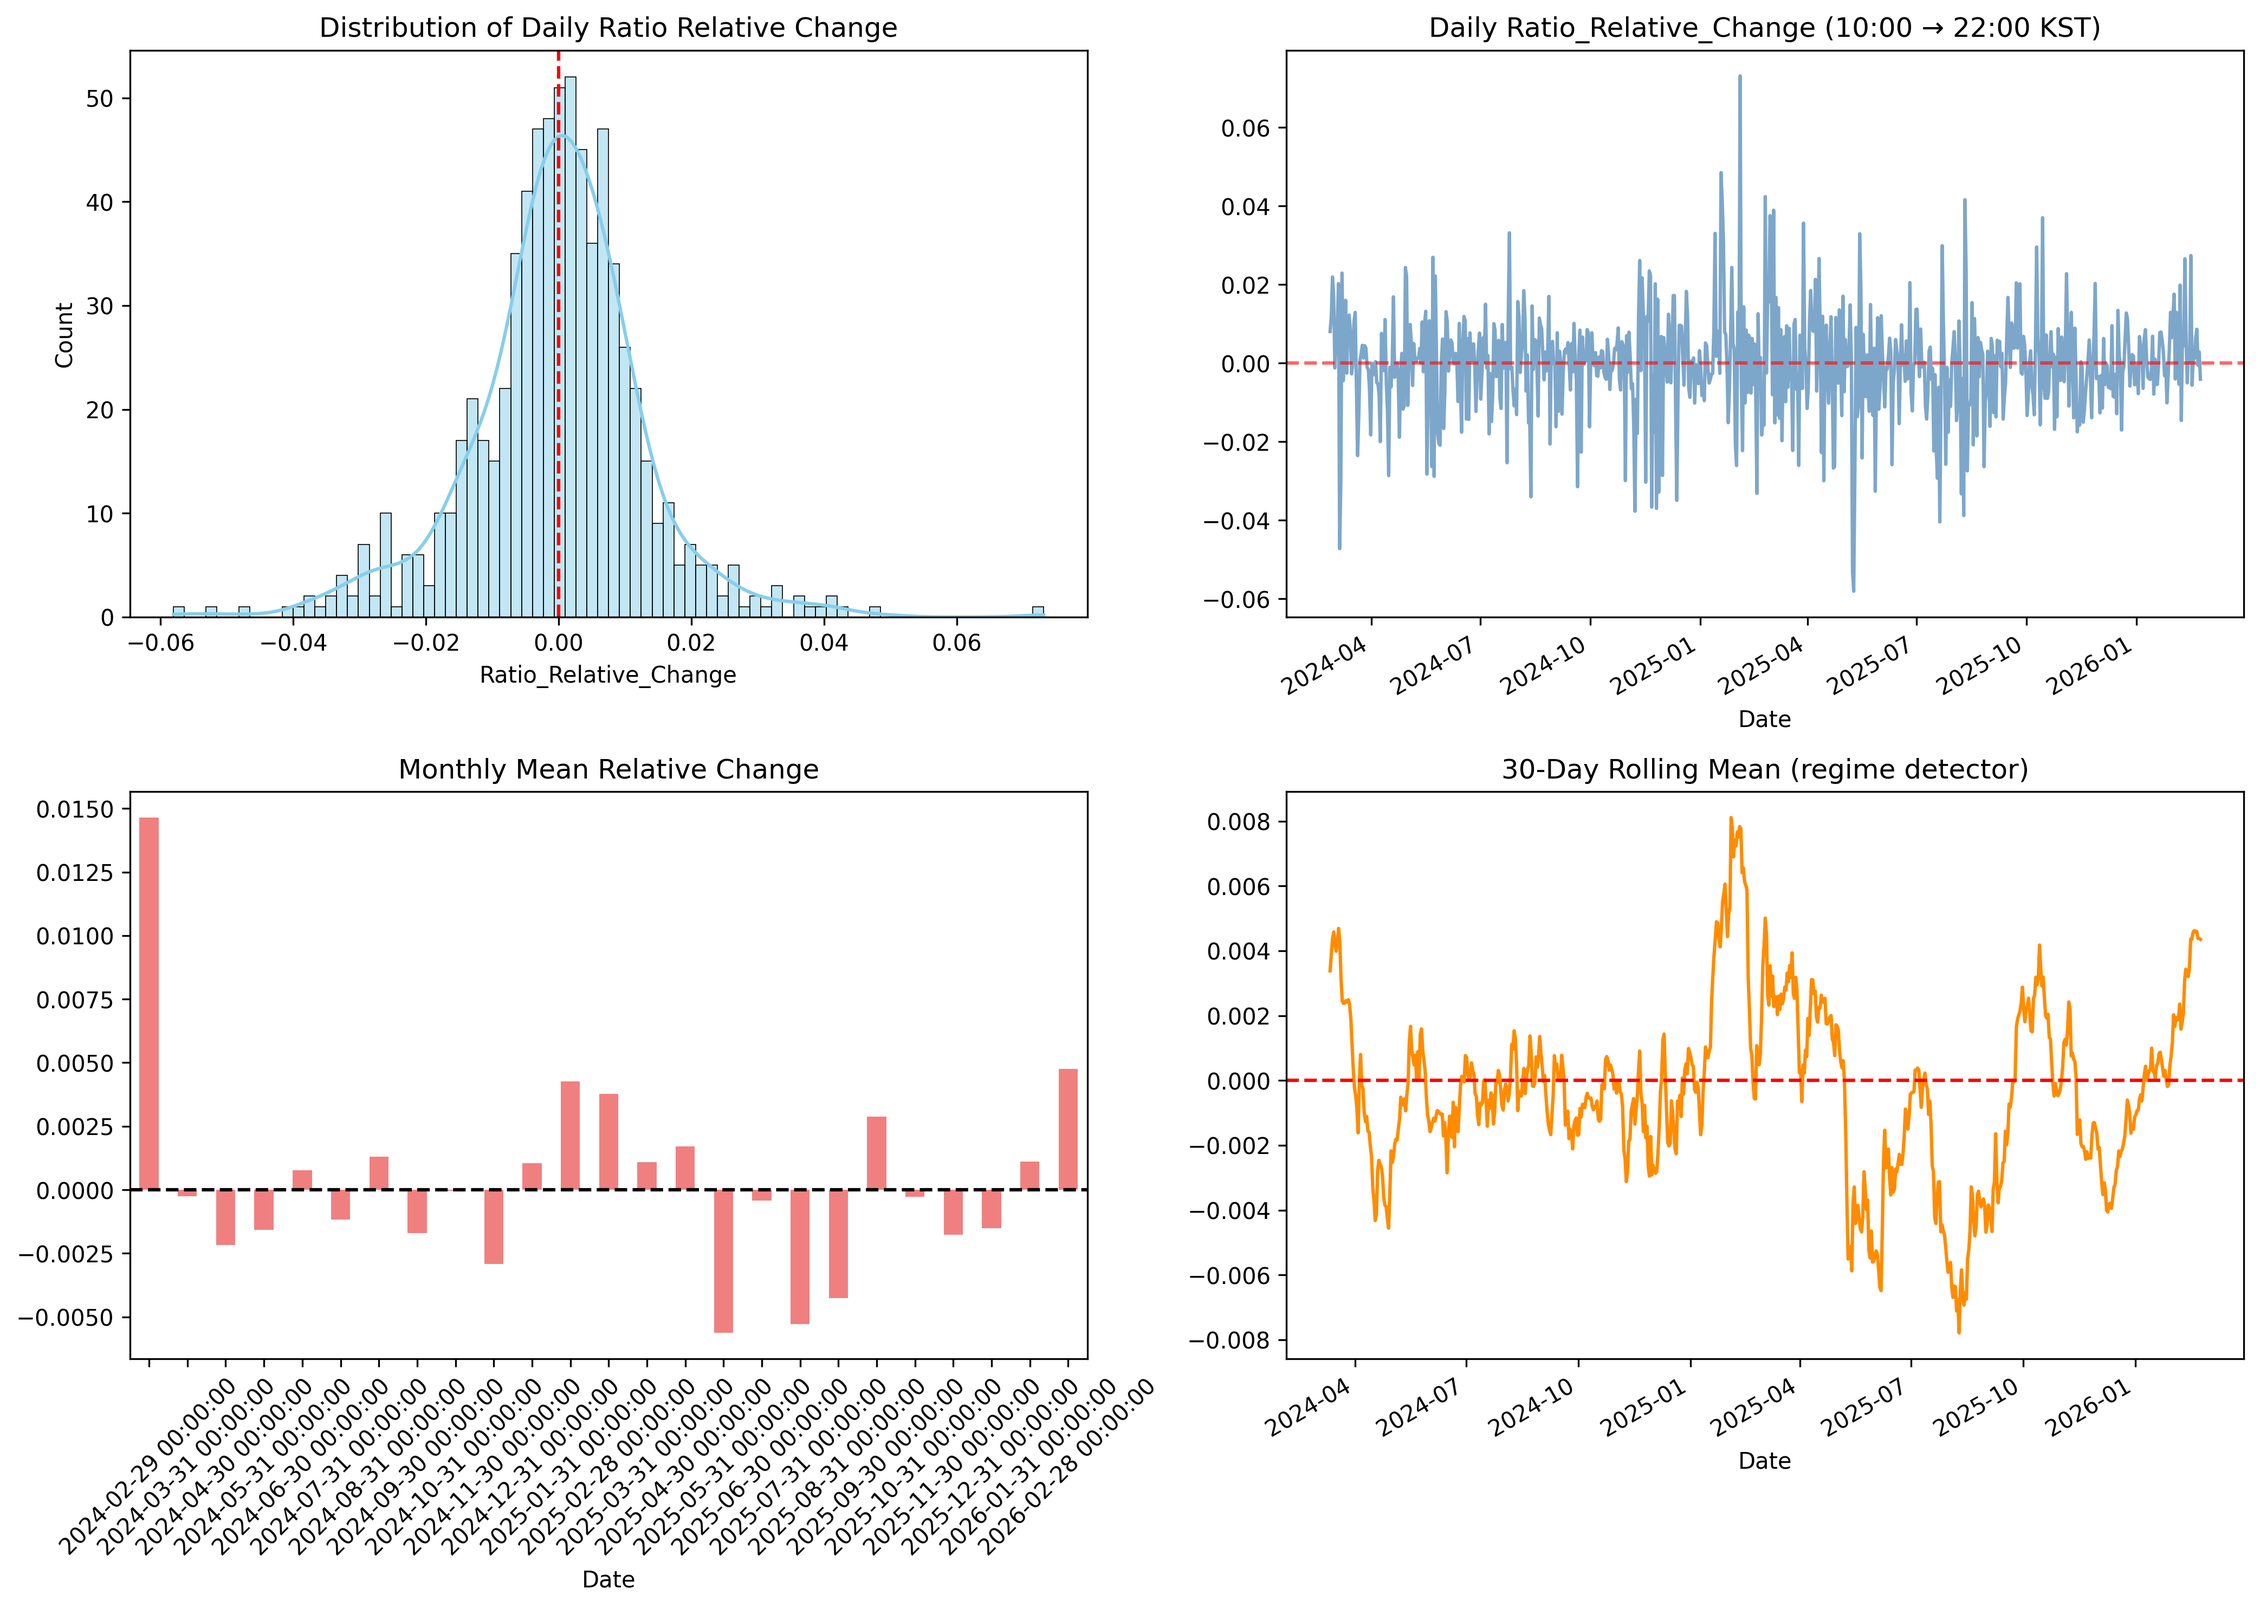
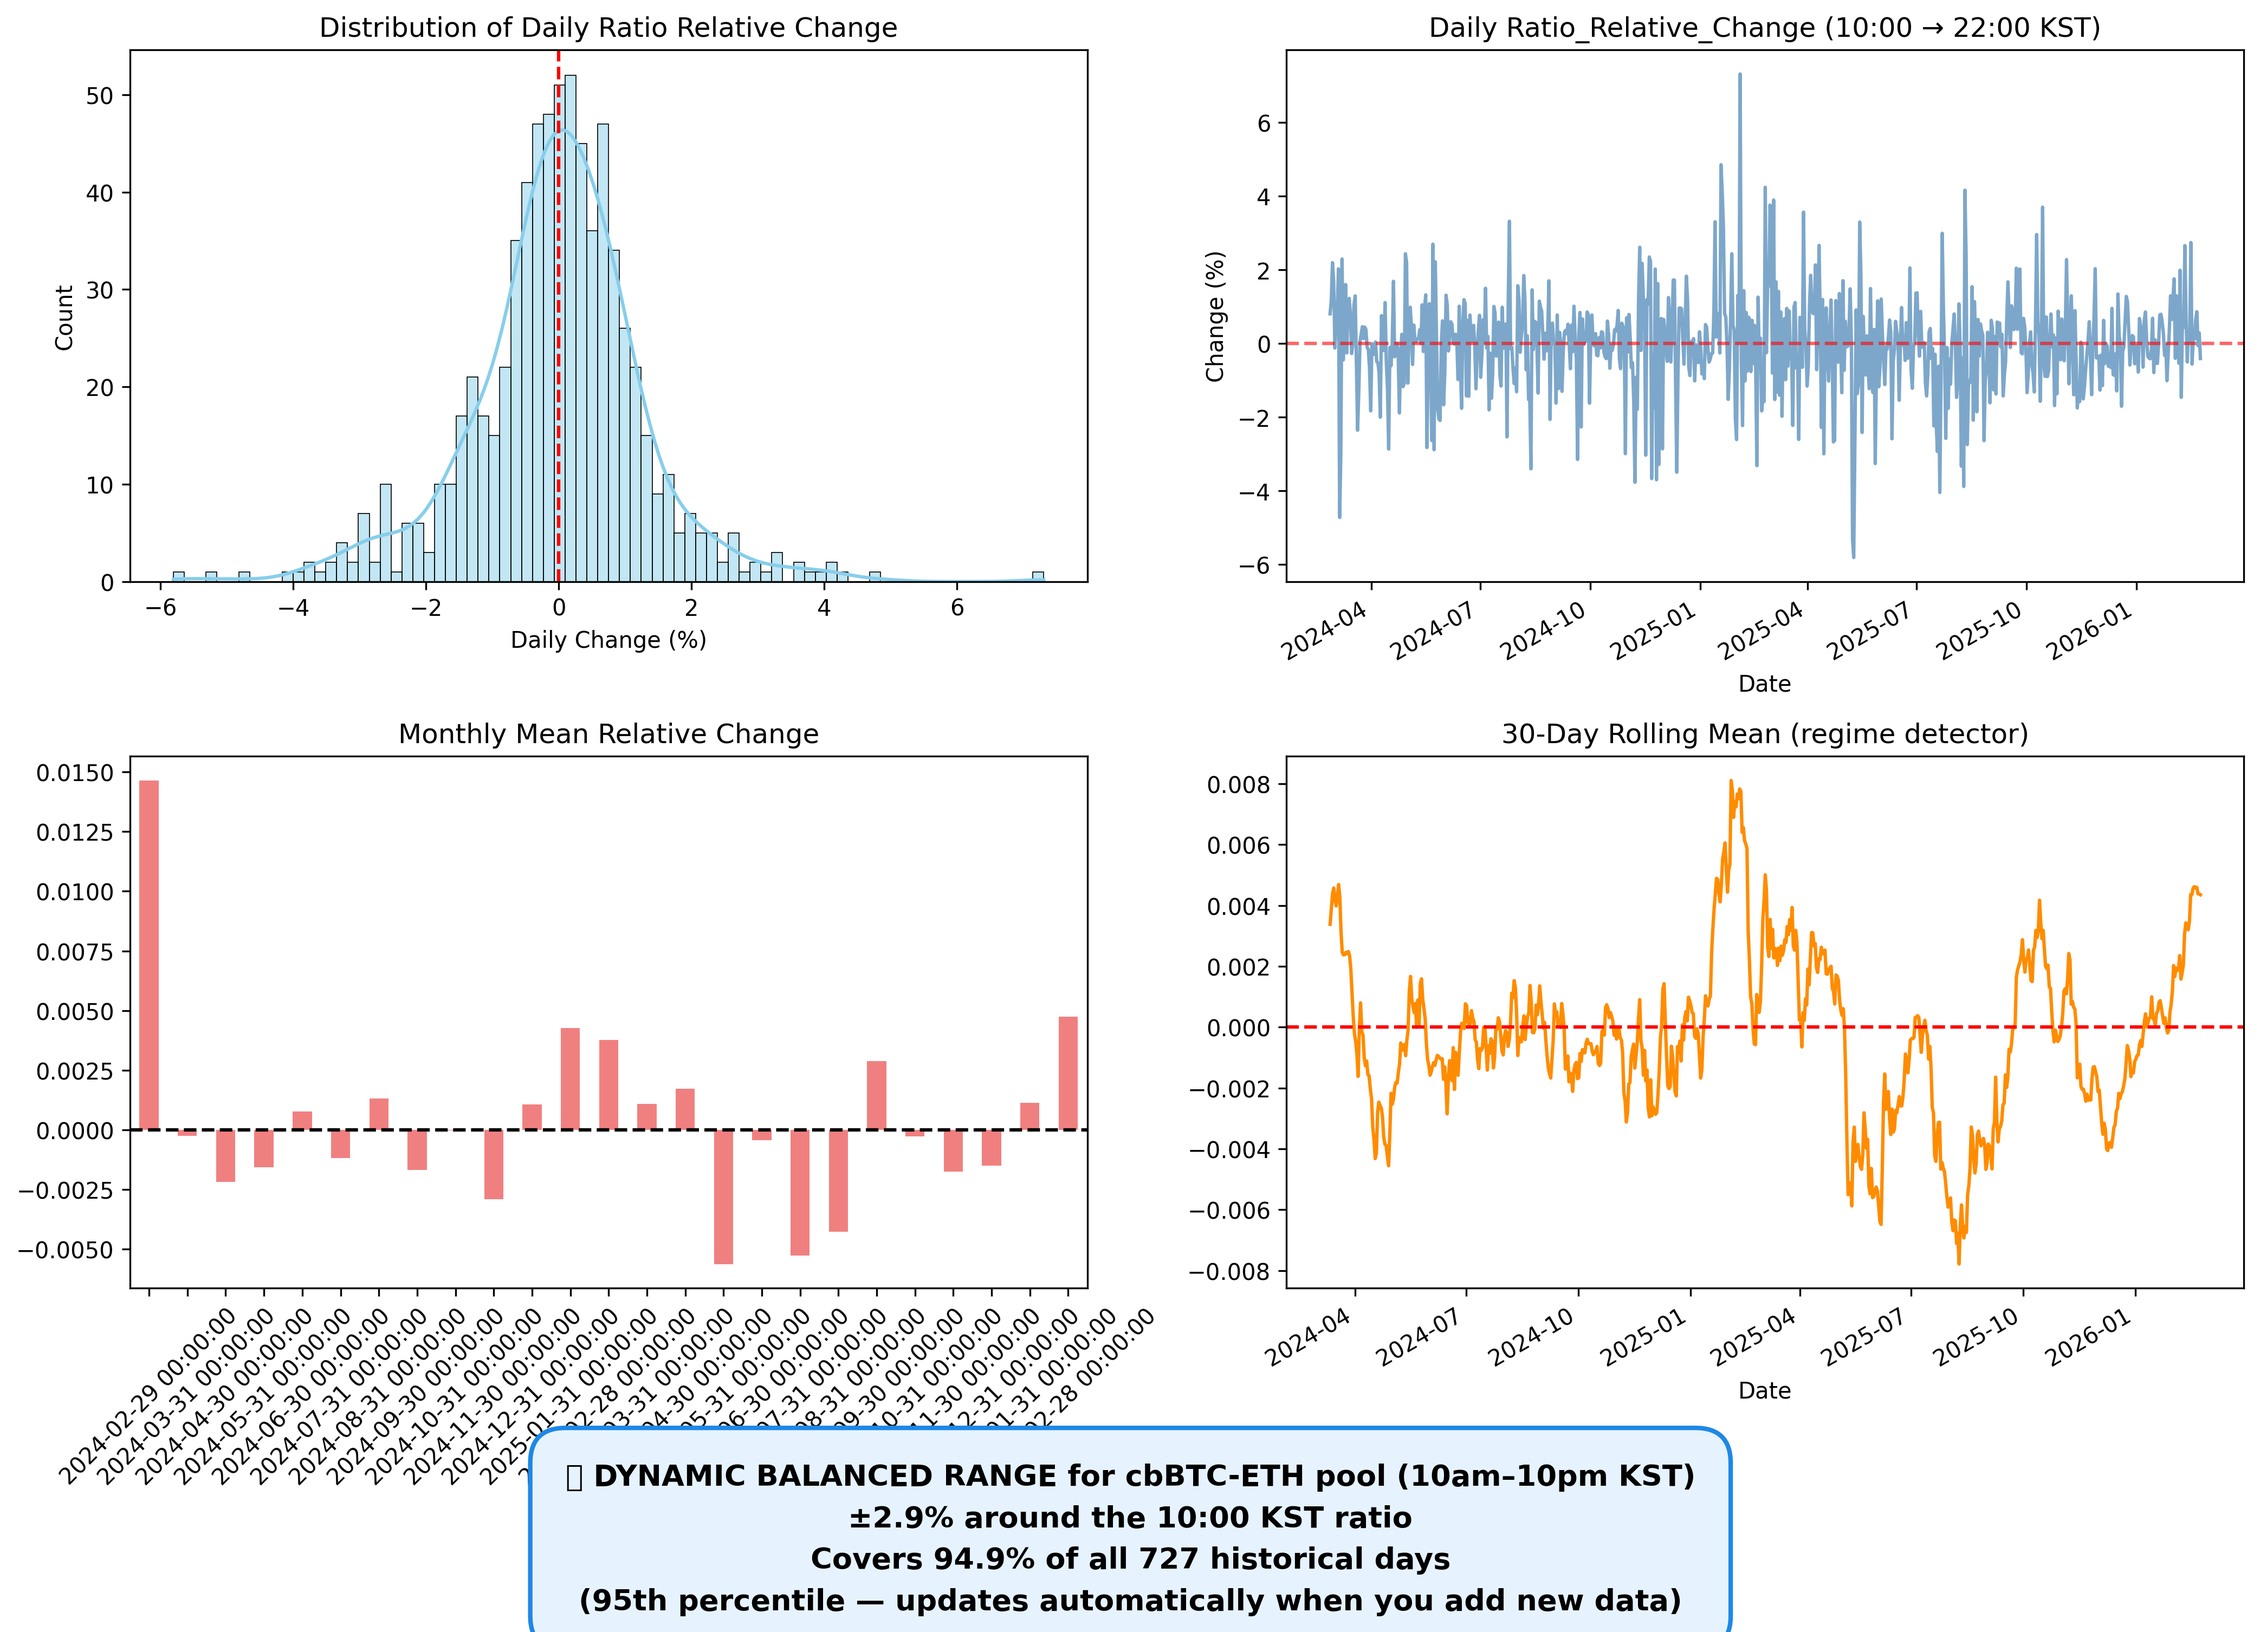
printing final result

diff --git a/src/v2/statsLook_day.py b/src/v2/statsLook_day.py
@@ -33,14 +33,9 @@ print(f"Mean               : {changes.mean():.6f}  ({changes.mean()*100:6.3f}%)"
 print(f"Median             : {changes.median():.6f}")
 print(f"Std Dev            : {changes.std():.6f}  (~{changes.std()*100:.2f}%)")
 print(f"Positive days      : {(changes > 0).mean()*100:.2f}%  ({(changes > 0).sum()}/{len(changes)})")
-print(f"Skewness           : {changes.skew():.4f}")
-print(f"Kurtosis           : {changes.kurtosis():.4f}")
 
 t_stat, p_value = stats.ttest_1samp(changes, 0)
 print(f"\nT-test p-value (mean == 0) : {p_value:.4f} → {'Not significant' if p_value > 0.05 else 'Significant'}")
-
-autocorr = changes.autocorr(lag=1)
-print(f"Lag-1 Autocorrelation     : {autocorr:.4f} → Almost none (pure noise)")
 
 # ====================== 3. MONTHLY BLOCK METHOD ======================
 print("\n=== MONTHLY BLOCK ANALYSIS (brutally effective) ===")
@@ -57,8 +52,6 @@ monthly_display = monthly[['mean', 'positive_pct', 'count']].copy()
 monthly_display['mean'] = monthly_display['mean'] * 100   # show as %
 
 print(monthly_display.round(4))
-
-# Save for Excel
 monthly_display.to_csv('ratio_monthly_blocks.csv')
 print(f"\n📁 Monthly blocks saved → ratio_monthly_blocks.csv")
 
@@ -71,17 +64,33 @@ rolling = df['Ratio_Relative_Change'].rolling(window=30, min_periods=15).agg({
 
 print(rolling.tail(10).round(4))
 
-# ====================== 5. VISUALS + SAVE AS PNG ======================
-plt.figure(figsize=(14, 10))
+# ====================== 5. DYNAMIC BALANCED RANGE (derived from YOUR data) ======================
+# This is fully automatic — no hard-coded number
+# We take the 95th percentile of absolute changes → exactly the range that has historically kept you in-range 95% of the time
+abs_changes = np.abs(changes)
+p95 = np.percentile(abs_changes, 95)          # this is the key line
+balanced_range_pct = round(p95 * 100, 1)      # e.g. 2.7 or 2.8 — updates every time you add new rows
+
+coverage_pct = (abs_changes <= p95).mean() * 100   # will always be ~95%
+
+print(f"\n💡 DYNAMIC BALANCED RANGE RECOMMENDATION (derived from data)")
+print(f"   ±{balanced_range_pct}% around the 10:00 KST ratio")
+print(f"   Covers {coverage_pct:.1f}% of all {len(changes)} historical days")
+print(f"   (95th percentile of |daily moves| — automatically updates as you add new data)")
+
+# ====================== 6. VISUALS + SAVE AS PNG (with dynamic recommendation) ======================
+plt.figure(figsize=(14, 11))   # slightly taller for the box
 
 plt.subplot(2, 2, 1)
-sns.histplot(changes, bins=80, kde=True, color='skyblue')
+sns.histplot(changes*100, bins=80, kde=True, color='skyblue')
 plt.axvline(0, color='red', linestyle='--')
+plt.xlabel('Daily Change (%)')
 plt.title('Distribution of Daily Ratio Relative Change')
 
 plt.subplot(2, 2, 2)
-changes.plot(alpha=0.7, color='steelblue')
+(changes*100).plot(alpha=0.7, color='steelblue')
 plt.axhline(0, color='red', linestyle='--', alpha=0.6)
+plt.ylabel('Change (%)')
 plt.title('Daily Ratio_Relative_Change (10:00 → 22:00 KST)')
 
 plt.subplot(2, 2, 3)
@@ -95,13 +104,23 @@ rolling['mean'].plot(color='darkorange')
 plt.axhline(0, color='red', linestyle='--')
 plt.title('30-Day Rolling Mean (regime detector)')
 
-plt.tight_layout()
+plt.tight_layout(rect=[0, 0.08, 1, 0.95])
+
+# === DYNAMIC RECOMMENDATION BOX ON THE PNG ===
+plt.figtext(0.5, 0.04,
+            f"💡 DYNAMIC BALANCED RANGE for cbBTC-ETH pool (10am–10pm KST)\n"
+            f"±{balanced_range_pct}% around the 10:00 KST ratio\n"
+            f"Covers {coverage_pct:.1f}% of all {len(changes)} historical days\n"
+            f"(95th percentile — updates automatically when you add new data)",
+            ha='center', va='bottom', fontsize=13, fontweight='bold',
+            bbox=dict(boxstyle="round,pad=1.2", facecolor="#E6F3FF", edgecolor="#1E88E5", linewidth=2),
+            linespacing=1.6)
 
 # SAVE AS HIGH-QUALITY PNG
 plt.savefig('ratio_daily_analysis.png', dpi=300, bbox_inches='tight')
-print(f"\n📸 Chart saved as ratio_daily_analysis.png (300 DPI)")
+print(f"\n📸 Chart saved as ratio_daily_analysis.png (300 DPI — dynamic range included!)")
 
 plt.show()
 
-print("\n🎯 All done! PNG saved automatically every run.")
-print("   You now have clean stats + monthly CSV + beautiful chart PNG.")
+print("\n🎯 Done! The recommended range is now 100% derived from your data.")
+print("   Add new rows to the CSV → run the script again → range updates automatically.")
